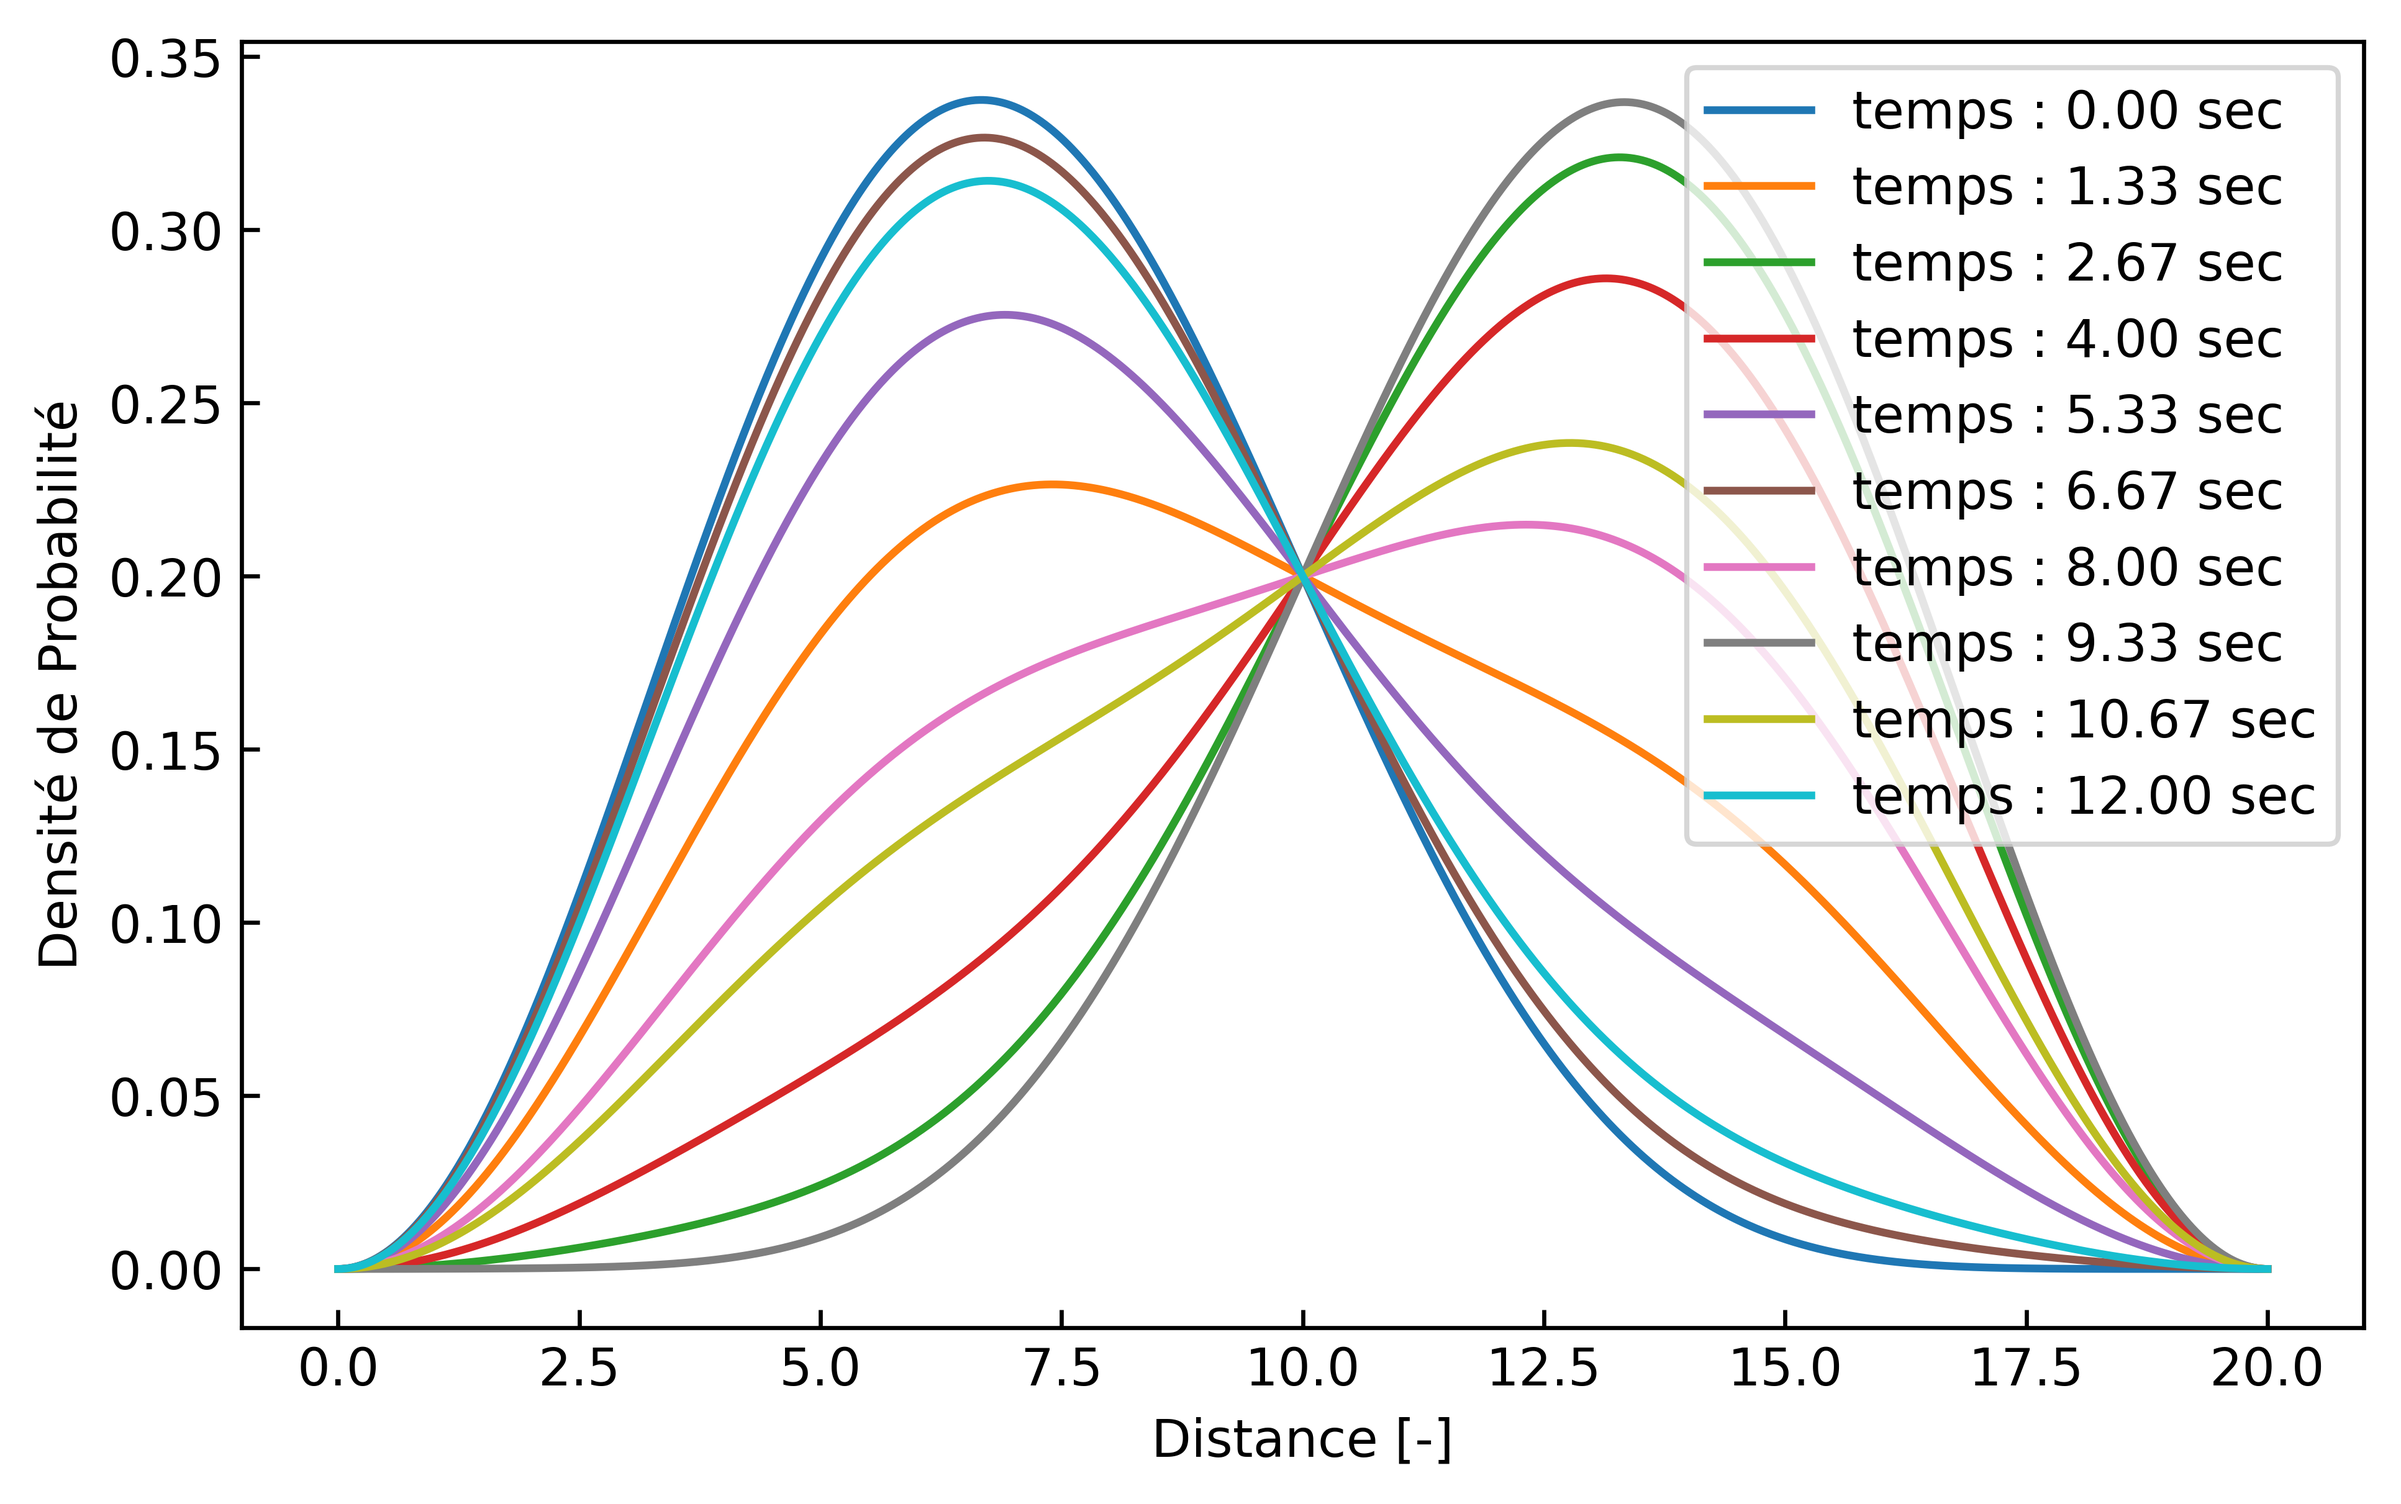
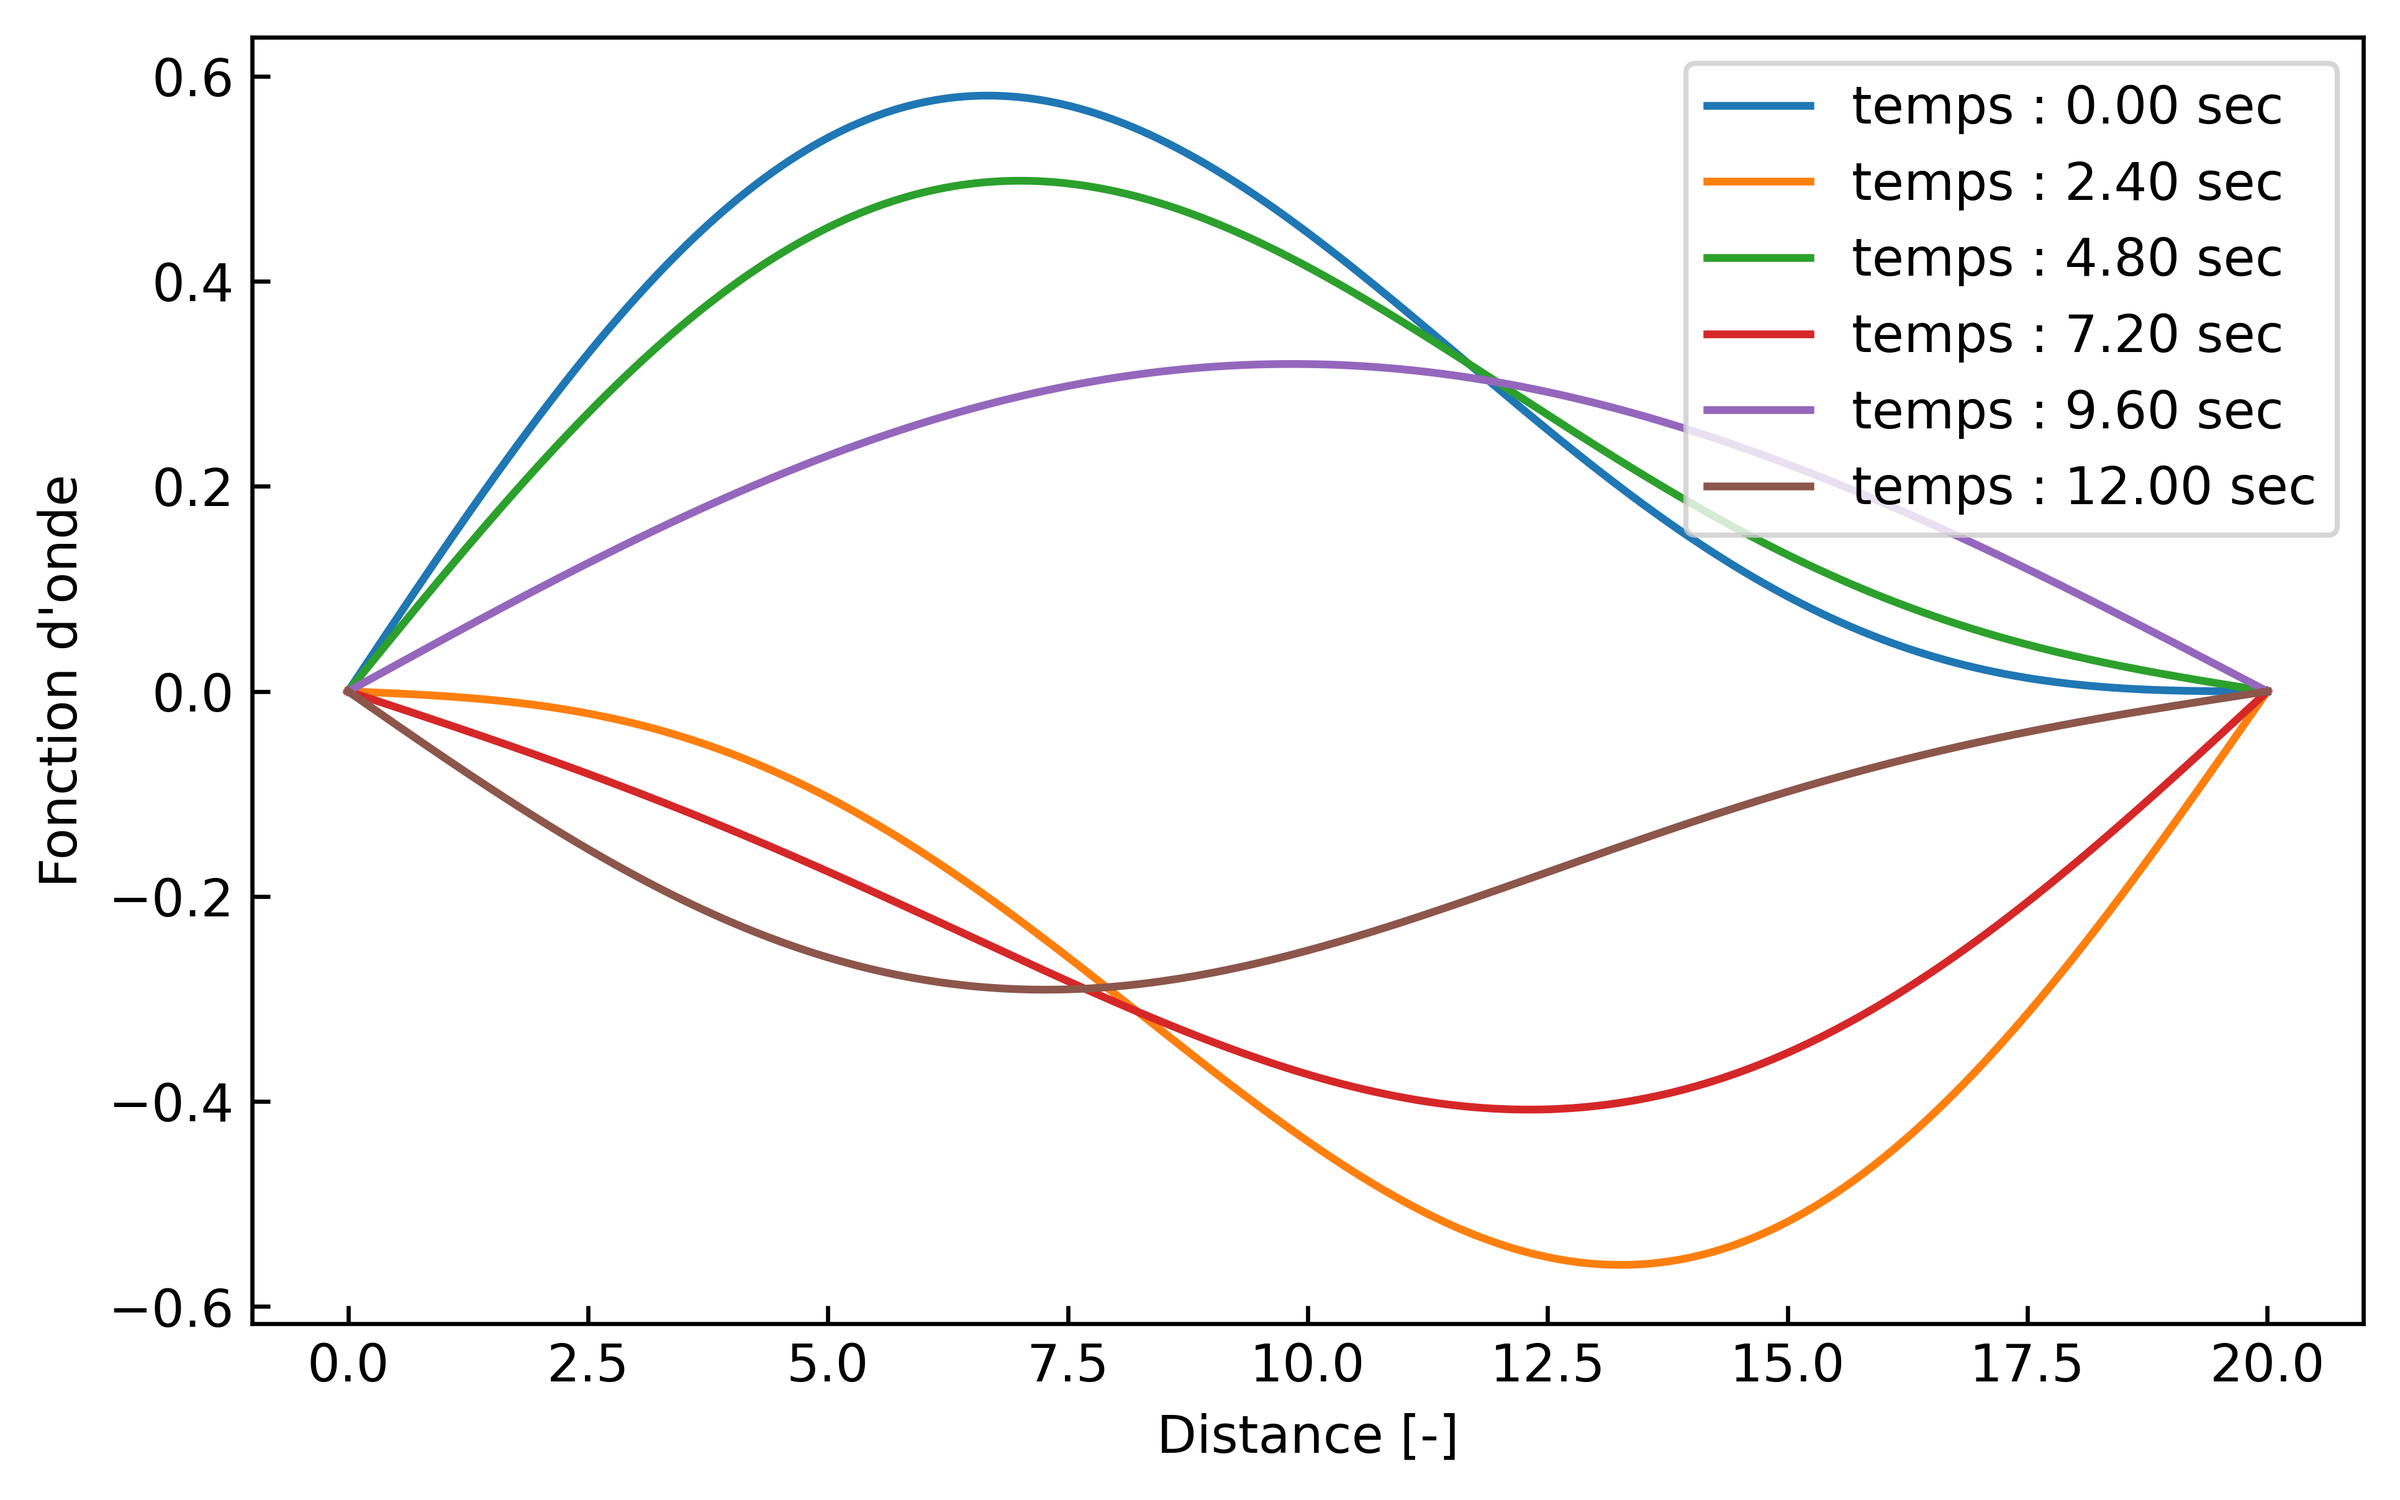
Y peux-tu finir cte criss de devoir
Arrrrgh

diff --git a/3.1Dev1.py b/3.1Dev1.py
@@ -4,28 +4,29 @@ from scipy.sparse.linalg import eigs
 from findiff import FinDiff
 import matplotlib.pyplot as plt
 
+pi = np.pi
 a = 20
 j = complex(0, 1)
-m = 1
-e = 2.7182818284590452353602874713527
-t = np.linspace(0, 12, 10)
+m = 9.1093837015e-31
+e = 1.602176634e-19
+t = np.linspace(0, 12, 6)
 x = np.linspace(0, a, 1000) # define our grid
 
 def penice_a(x, t):
     Penis = (1/np.sqrt(a))*(2*np.sin((np.pi*x)/a) * e**(-j * t) + np.sin((np.pi * x * 2)/a) * e**(-j * 2 * t))
     return Penis
 
-#colors = ['blue', 'black', 'orange', 'red', 'purple', 'green']
+
 fig = plt.figure()
 ax = fig.add_subplot(111)
 
 for i in range(len(t)):
-    ax.plot(x , penice_a(x, t[i]).real**2 + penice_a(x, t[i]).imag**2 , label=f'temps : {t[i]:.2f} sec') #color=colors[i],
+    ax.plot(x , penice_a(x, t[i]), label=f'temps : {t[i]:.2f} sec') #color=colors[i], + abs(penice_a(x, t[i]).imag)
 
 fig.tight_layout()
 fig.subplots_adjust(top=0.8)
 plt.xlabel("Distance [-]")
-plt.ylabel('Densité de Probabilité')
+plt.ylabel("Fonction d'onde")
 ax.tick_params(axis="y",direction="in")
 ax.tick_params(axis="x",direction="in")
 ax.legend()
@@ -39,13 +40,29 @@ def penice_b(x, t):
     return Penis
 
 for i in range(len(t)):
-    ax.plot(x , penice_b(x, t[i]).real**2 + penice_b(x, t[i]).imag**2 , label=f'temps : {t[i]:.2f} sec') # color=colors[i],
+    ax.plot(x , penice_b(x, t[i]), label=f'temps : {t[i]:.2f} sec') # color=colors[i], + abs(penice_b(x, t[i]).imag)
 
 fig.tight_layout()
 fig.subplots_adjust(top=0.8)
 plt.xlabel("Distance [-]")
-plt.ylabel('Densité de Probabilité')
+plt.ylabel("Fonction d'onde")
 ax.tick_params(axis="y",direction="in")
 ax.tick_params(axis="x",direction="in")
 ax.legend()
-fig.savefig(f"GraphB", bbox_inches='tight',dpi=600)
+fig.savefig(f"Graph_B", bbox_inches='tight',dpi=600)
+
+def PENICE(x,t):
+    PENIS = (1/np.sqrt(a))*(2*np.sin((np.pi*x)/a) * e**(-j * t) + np.sin((np.pi * x * 2)/a) * e**(-j * 2 * t)) + (1/np.sqrt(a))*(2*np.sin((np.pi*x)/a) * e**(-j * t) + np.sin((np.pi * x * 3)/a) * e**(-j * 9 * t))
+    return PENIS
+
+for i in range(len(t)):
+    ax.plot(x, PENICE(x, t[i]), label=f'temps : {t[i]:.2f} sec') #+ abs(PENICE(x, t[i]).imag)
+
+fig.tight_layout()
+fig.subplots_adjust(top=0.8)
+plt.xlabel("Distance [-]")
+plt.ylabel("Fonction d'onde")
+ax.tick_params(axis="y",direction="in")
+ax.tick_params(axis="x",direction="in")
+#ax.legend()
+fig.savefig(f"GraphThot", bbox_inches='tight',dpi=600)

diff --git a/4Dev1.py b/4Dev1.py
@@ -1,15 +1,17 @@
 import numpy as np
 from scipy.constants import hbar
+from scipy.sparse.linalg import eigs
+import matplotlib.pyplot as plt
 
 def build_Hmatrix(eigenvalue: float, v: np.ndarray, n: int):
   H = np.pad(-np.identity(n - 1), ((0,1),(1,0)), 'constant') + np.identity(n) * (2 + v) + np.pad(-np.identity(n - 1), ((1,0),(0,1)), 'constant')
   return H
 
 def lambd(m, delta_x):
-  return 1 / (2*m*delta_x**2)
+  return hbar**2 / (2*m*delta_x**2)
 
 A = 1
-N = 3
+N = 100
 deltx = A / (N + 1)
 M = 1
 
@@ -18,11 +20,17 @@ def Energie(M, A, N):
     return Energie
 
 Hmatrix = build_Hmatrix(lambd(M, deltx), np.zeros(N), N)
-print(Hmatrix)
+#print(Hmatrix)
 
-eigenVals = np.linalg.eig(Hmatrix - np.eye(N) * Energie(M, A, N))[0][:]
-print(eigenVals)
+eigenVals, eigenVecs = eigs(Hmatrix + np.eye(N) * Energie(M, A, N))
+#print(eigenVals)
+y = eigenVecs[:, 2].real
+#print(y)
+x = np.linspace(0, A, N)
+plt.plot(x, y)
+plt.show()
 
 sorted_eigenVals = sorted(eigenVals)
-for i in sorted_eigenVals[:5]:
-  print(i*lambd(M, deltx))
+"""for i in sorted_eigenVals[:5]:
+  print(i*lambd(M, deltx))"""
+
